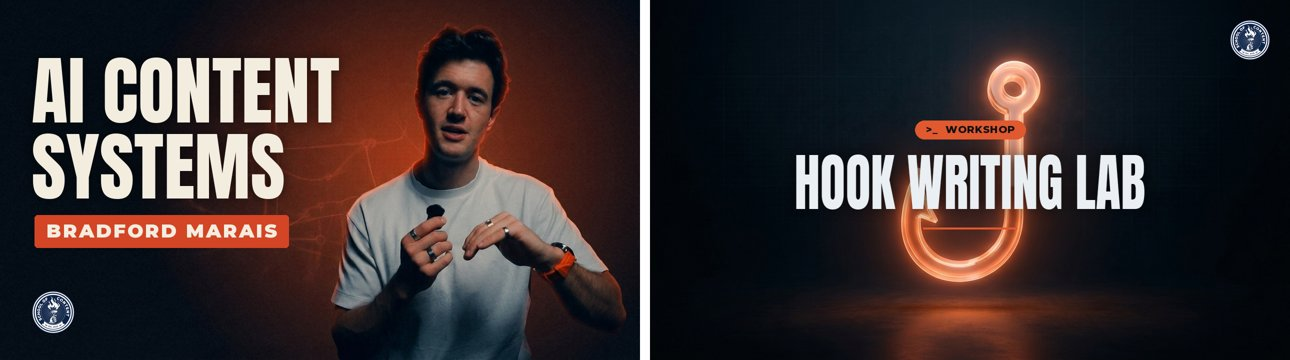
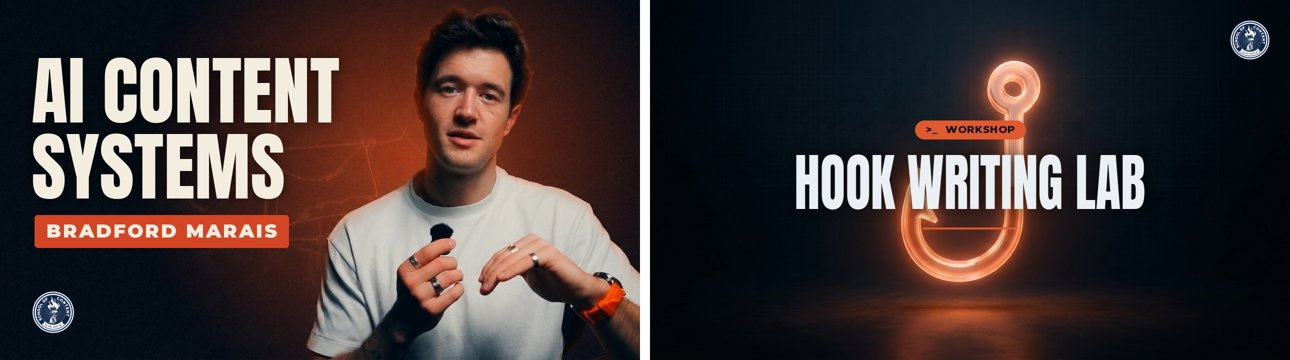
Tighter portrait crop, readable face lighting, judge ignores real clothing text

Changed region(s): [[0.2171, 0.0306, 0.4961, 1.0]]

diff --git a/scripts/coach_cover.py b/scripts/coach_cover.py
@@ -29,9 +29,9 @@ RELIGHT_PROMPT = """Image 1 is a real photo of the presenter. Image 2 is an empt
 
 Place the presenter from Image 1 into the scene in Image 2 so it looks photographed there, not pasted on.
 
-FRAMING: the presenter stands or sits in the RIGHT 42% of the frame, from about the waist or chest up, body slightly angled toward the left, filling most of the frame height. Keep the LEFT 58% of the frame clear of the person (only background there). If Image 1 shows them holding an object (an award, a microphone, a laptop), keep it.
+FRAMING: a tight, big portrait crop like a YouTube thumbnail. The presenter is in the RIGHT 42% of the frame and LARGE: the top of the head sits near the top edge (about 5-10% down), and the body is cut off by the bottom edge at the chest or waist, so they fill nearly the full frame height. If Image 1 shows the full body, crop in anyway: never show legs or feet, never leave the presenter small in the middle. Body slightly angled toward the left. Keep the LEFT 58% of the frame clear of the person (only background there). If they hold an object (an award, a microphone, a laptop), keep it if it fits the crop.
 
-LIGHTING: relight the presenter to match the scene. The red-orange glow in Image 2 sits behind them: it rims their hair, shoulders and the edge of the face with warm red-orange light, and the side of the face toward the left falls into soft shadow. Deep navy ambient fill everywhere else. Moody and low-key, not bright: the face stays natural skin tone, never orange or yellow. Contrast and grain match the background.
+LIGHTING: relight the presenter to match the scene, like a professional thumbnail photo. The face is WELL LIT and easy to read: a soft, warm key light from the front-right falls on the face, natural skin tone, clear eyes. The red-orange glow in Image 2 sits behind them and rims their hair and shoulders with red-orange light. The left side of the body falls gently into shadow. Deep navy ambient fill. Never underexpose the face, and never turn the skin orange. Contrast and grain match the background.
 
 BACKGROUND: keep Image 2 exactly: same navy, same deep red-orange glow (do NOT enlarge, brighten or turn it yellow), same faint motif and dot texture.
 

diff --git a/scripts/common.py b/scripts/common.py
@@ -161,9 +161,10 @@ JUDGE_PROMPT = (
     "Image 1 is an AI-edited picture. Image 2 is a real photo of one person. "
     "Judge ONLY whether the main person in Image 1 is immediately recognizable as the person in "
     "Image 2: face shape, eyes, nose, mouth, skin tone, hair, facial hair, distinguishing features. "
-    "Ignore lighting, background, crop and image quality. Also check Image 1 for problems: any "
-    "visible text or letters, a second person, extra or broken hands/fingers, or the person "
-    "looking pasted on. Return ONLY JSON: "
+    "Ignore lighting, background, crop and image quality. Also check Image 1 for problems: the face too dark "
+    "to read, a second person, extra or broken hands/fingers, the person looking pasted on, or "
+    "text/letters floating in the background (text printed on their clothes or on an object "
+    "they hold in Image 2 is fine and is NOT a problem). Return ONLY JSON: "
     '{"score": <0-10, 10 = unmistakably the same person, 7 = clearly them with minor drift, '
     '4 = resembles them but noticeably off, 0 = different person>, '
     '"problems": "<empty string, or the worst visible problem in a few words>", '
